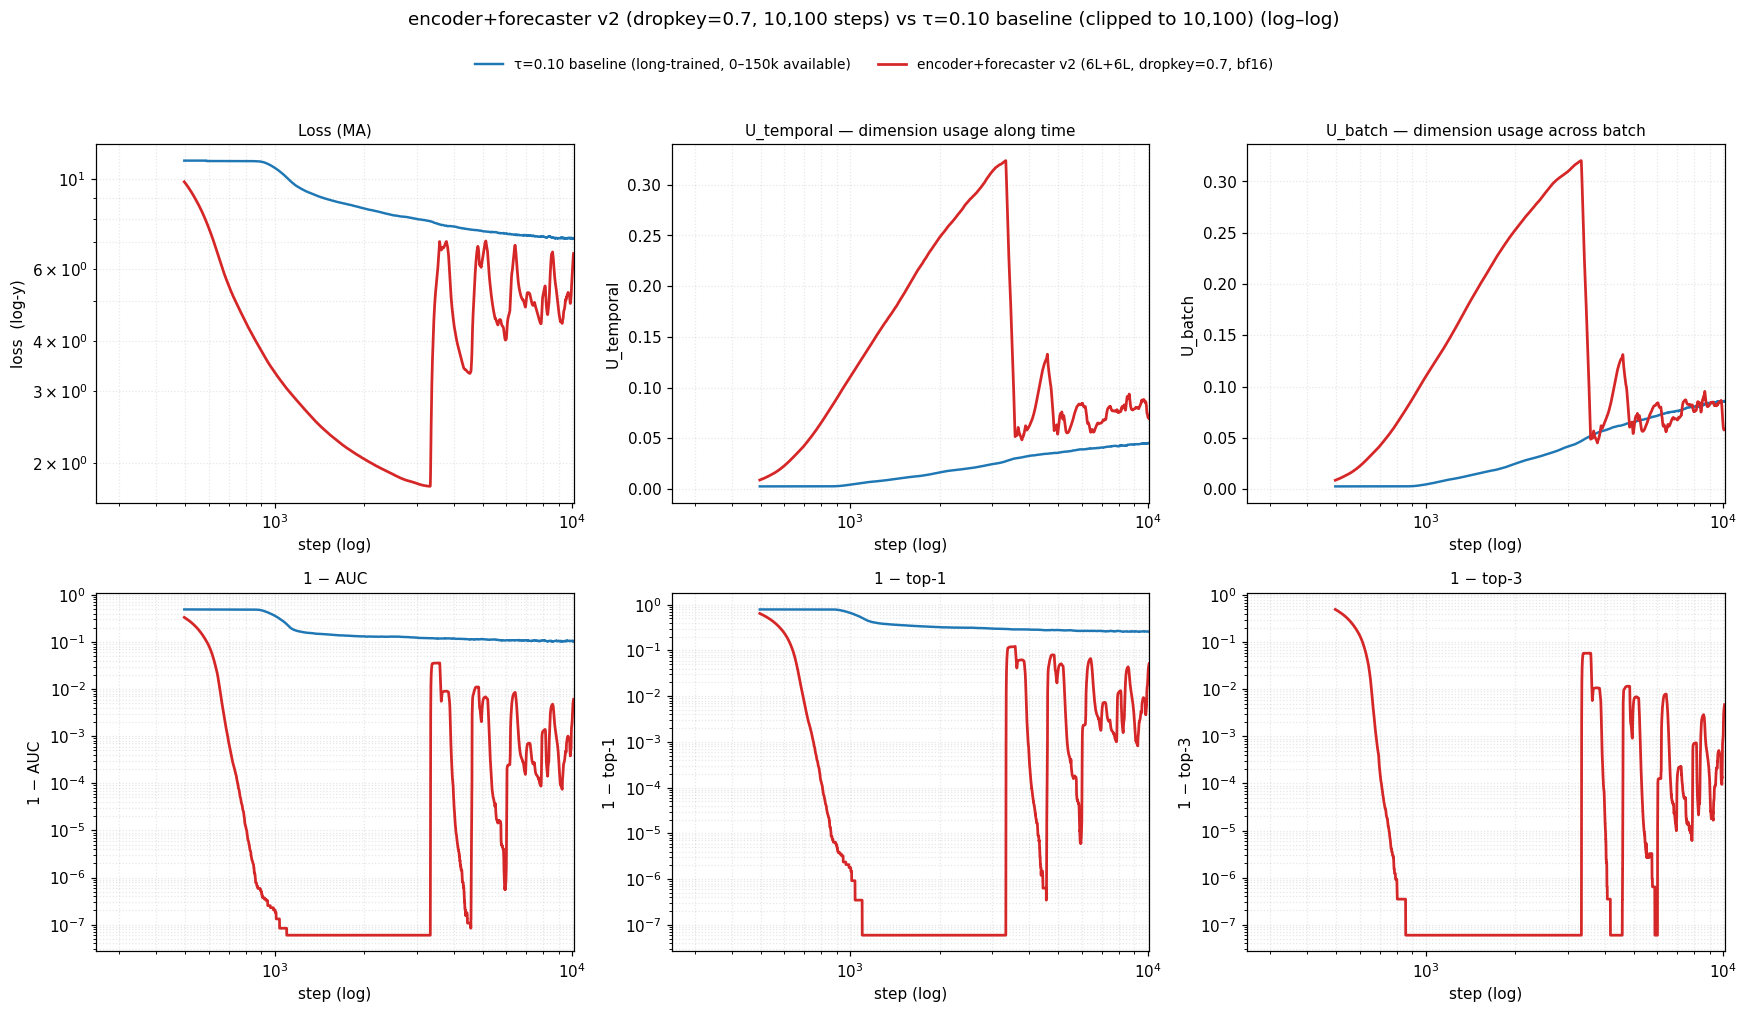
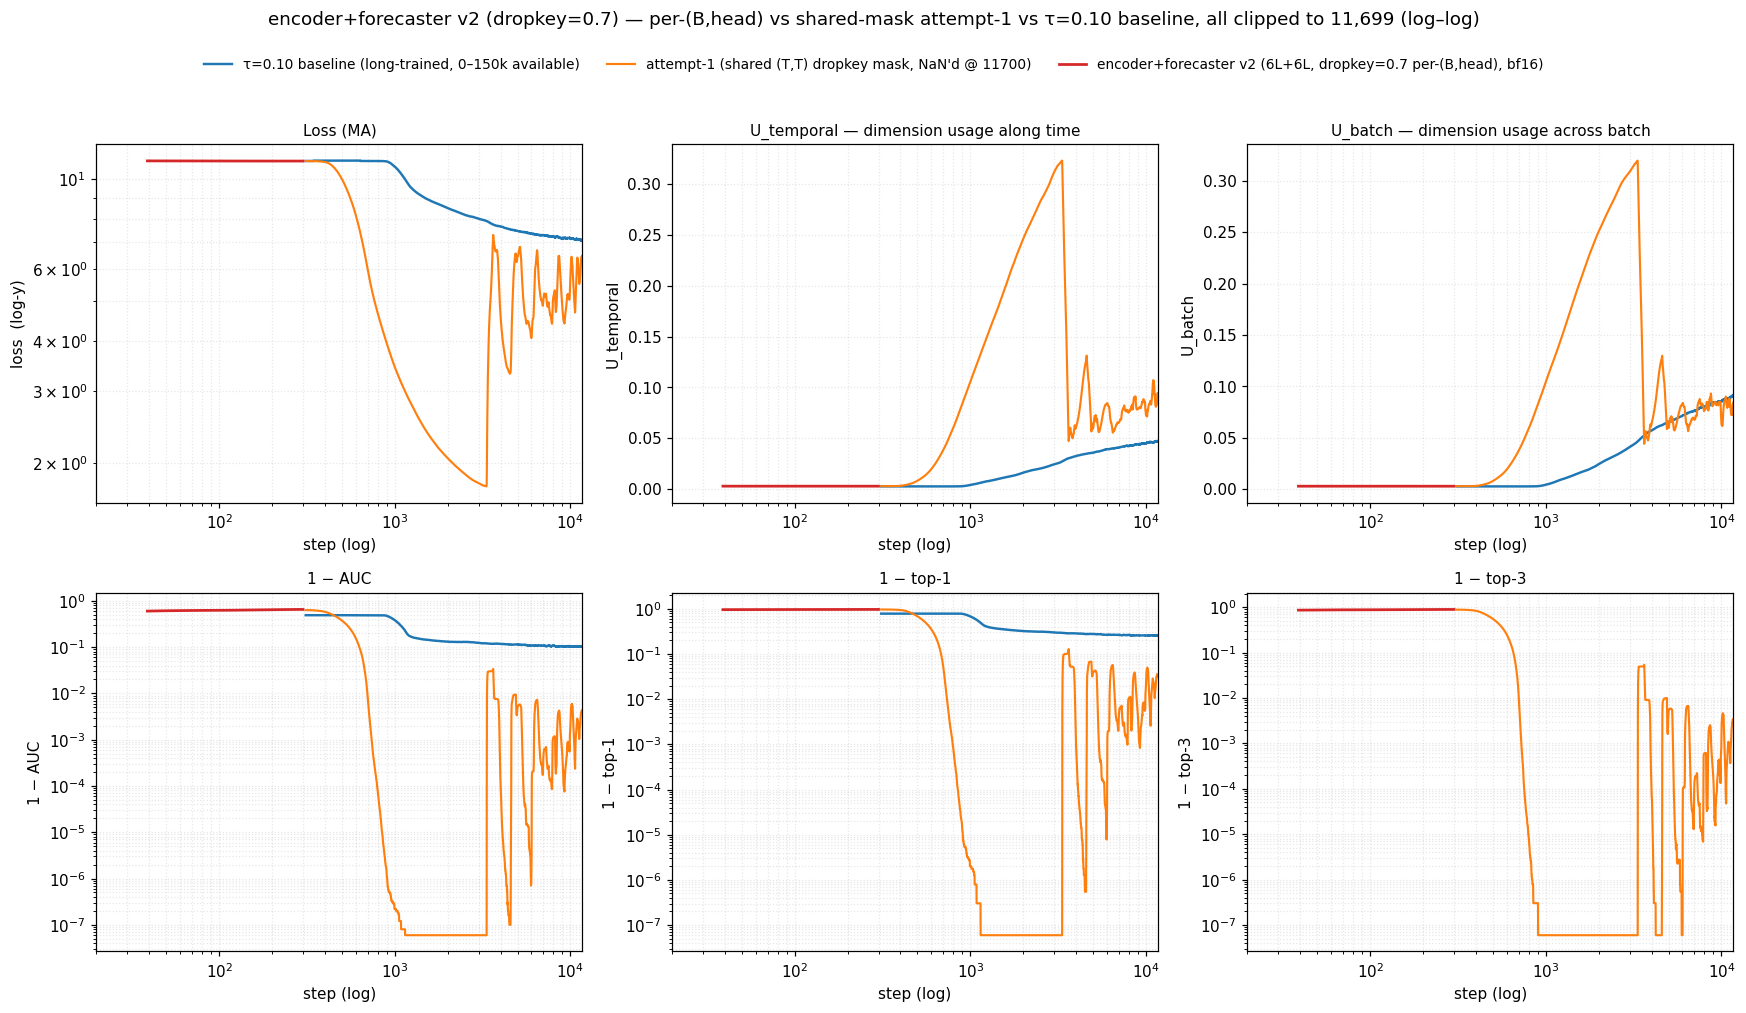
plot(enc-fcst-v2): add attempt-1 (orange) as a third curve
3-arm comparison: τ=0.10 baseline (blue) / attempt-1 shared-mask (orange,
NaN'd @ 11700) / new per-(B,head) arm (red). xmax = max(new_arm_max,
attempt1_max) capped at baseline_max — so attempt-1's full trajectory
stays visible while the new arm ramps up, then the right edge follows
the new arm once it passes 11700.

diff --git a/experiments/2026-05-11_exp_encoder_forecaster/scripts/plot_progress.py b/experiments/2026-05-11_exp_encoder_forecaster/scripts/plot_progress.py
@@ -64,8 +64,10 @@ MAIN = Path("/home/jupyter/contrastive-forecasting")
 
 # Color palette: saturated, high-contrast.
 #   - τ=0.10 baseline (long-trained, concatenated chunks) → tab:blue
-#   - encoder+forecaster v2 (new "headline" arm, dropkey=0.7) → tab:red
+#   - attempt-1 (shared (T,T) dropkey mask, NaN'd at step 11700) → tab:orange
+#   - per-(B,head) headline arm (dropkey=0.7, fresh per row+head) → tab:red
 C_BASELINE = "#1f77b4"  # tab:blue
+C_ATTEMPT1 = "#ff7f0e"  # tab:orange
 C_HEADLINE = "#d62728"  # tab:red
 
 # τ=0.10 baseline is split across resume chunks. Concatenate in step
@@ -78,6 +80,7 @@ BASELINE_CHUNKS = [
 ]
 
 NEW_ARM_CSV = MAIN / "checkpoints/enc_fcst_dropkey07_pb_50k_losses.csv"
+ATTEMPT1_CSV = MAIN / "checkpoints/enc_fcst_dropkey07_50k_attempt1_losses.csv"
 
 # (display_label, color, linestyle, lw, csv_path_or_chunks, is_concat)
 ARMS = [
@@ -85,6 +88,10 @@ ARMS = [
      C_BASELINE, "-", 1.6,
      BASELINE_CHUNKS,
      True),
+    ("attempt-1 (shared (T,T) dropkey mask, NaN'd @ 11700)",
+     C_ATTEMPT1, "-", 1.4,
+     ATTEMPT1_CSV,
+     False),
     ("encoder+forecaster v2 (6L+6L, dropkey=0.7 per-(B,head), bf16)",
      C_HEADLINE, "-", 1.8,
      NEW_ARM_CSV,
@@ -257,8 +264,8 @@ def render_figure(traj, *, logx, logy_metrics, out_path, scale_tag, xmax,
                    bbox_to_anchor=(0.5, 0.985))
 
     fig.suptitle(
-        f"encoder+forecaster v2 (dropkey=0.7 per-(B,head), {xmax:,} steps) "
-        f"vs τ=0.10 baseline (clipped to {xmax:,}) ({scale_tag})",
+        f"encoder+forecaster v2 (dropkey=0.7) — per-(B,head) vs shared-mask "
+        f"attempt-1 vs τ=0.10 baseline, all clipped to {xmax:,} ({scale_tag})",
         fontsize=12, y=1.02)
     fig.tight_layout(rect=(0, 0, 1, 0.96))
     fig.savefig(out_path, dpi=110, bbox_inches="tight")
@@ -275,9 +282,13 @@ def main() -> None:
         raise SystemExit("baseline chunks all missing or empty")
     new_arm_max = int(new_arm["step"].max())
     baseline_max = int(baseline["step"].max())
-    # Right edge = the new arm's most recent step. Baseline is clipped to
-    # the same window before smoothing so both curves end at the same x.
-    xmax = min(new_arm_max, baseline_max)
+    # Right edge = the new arm's most recent step (or attempt-1's, while
+    # the new arm hasn't passed it). All three arms get clipped to the
+    # same window before smoothing so the curves end at the same x.
+    attempt1 = load_traj(ATTEMPT1_CSV)
+    attempt1_max = int(attempt1["step"].max()) if attempt1 is not None else 0
+    xmax = max(new_arm_max, attempt1_max)
+    xmax = min(xmax, baseline_max)
 
     # Log-x lower bound: snap to the smaller of the two arms' first
     # smoothed point inside the visible window, so the [1..first_step]
